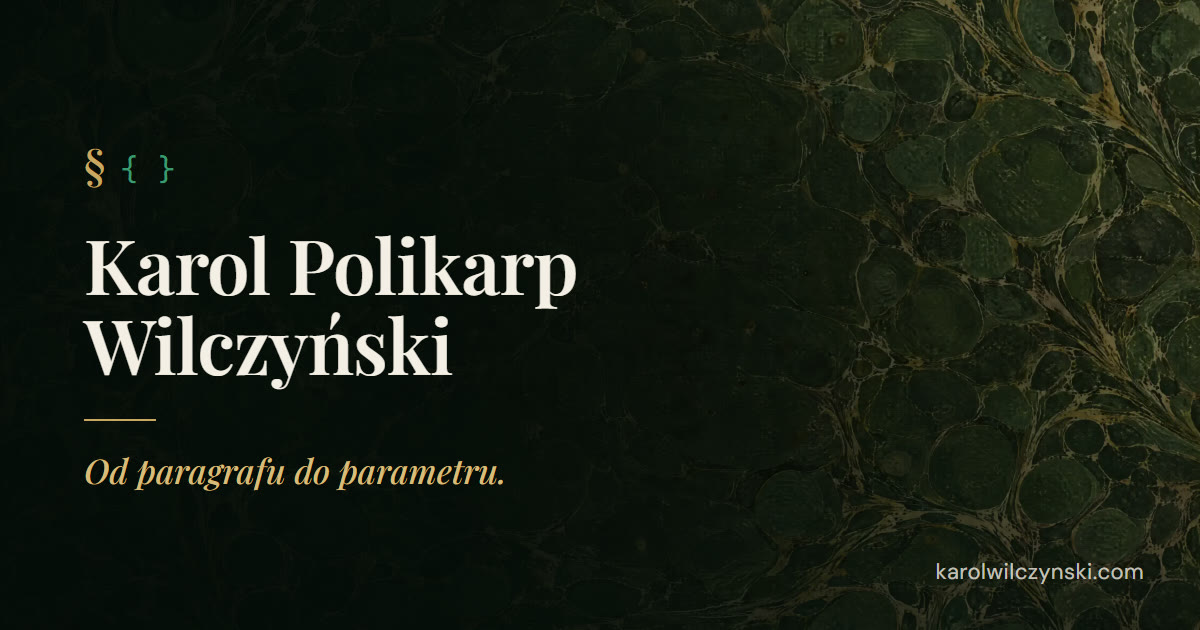
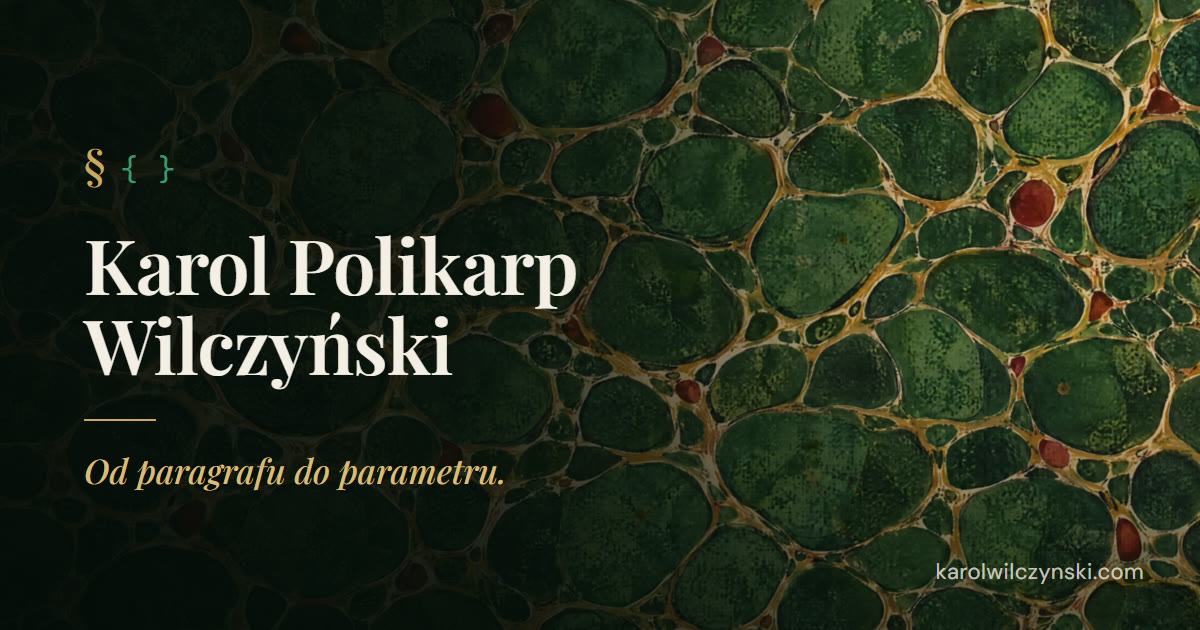
style(site): marmur kamienny (turecki) zamiast poprzedniego, bardzo subtelnie w kontakcie, nagłówkach studiów i na 404; nowa karta OG

diff --git a/style.css b/style.css
@@ -5403,16 +5403,16 @@ html { scrollbar-color: var(--color-phthalo-mid) transparent; }
 
 [data-theme="dark"] .contact.s1-section {
     background:
-        linear-gradient(90deg, var(--color-bg) 0%, rgba(18, 16, 13, 0.82) 45%, rgba(18, 16, 13, 0.55) 100%),
+        linear-gradient(90deg, rgba(18, 16, 13, 0.93) 0%, rgba(18, 16, 13, 0.9) 50%, rgba(18, 16, 13, 0.8) 100%),
         linear-gradient(180deg, var(--color-bg) 0%, transparent 30%, transparent 75%, var(--color-bg) 100%),
-        url("assets/images/brand/marmur.webp") right center / cover no-repeat,
+        url("assets/images/brand/kamienny.webp") right center / cover no-repeat,
         var(--color-bg);
 }
 @media (max-width: 767px) {
     [data-theme="dark"] .contact.s1-section {
         background:
-            linear-gradient(180deg, var(--color-bg) 0%, rgba(18, 16, 13, 0.7) 40%, rgba(18, 16, 13, 0.7) 70%, var(--color-bg) 100%),
-            url("assets/images/brand/marmur-sm.webp") 70% center / cover no-repeat,
+            linear-gradient(180deg, var(--color-bg) 0%, rgba(18, 16, 13, 0.9) 30%, rgba(18, 16, 13, 0.9) 70%, var(--color-bg) 100%),
+            url("assets/images/brand/kamienny-sm.webp") 70% center / cover no-repeat,
             var(--color-bg);
     }
 }
@@ -5425,16 +5425,16 @@ html { scrollbar-color: var(--color-phthalo-mid) transparent; }
     inset: 0;
     z-index: -1;
     pointer-events: none;
-    background: url("assets/images/brand/marmur-sm.webp") center / cover no-repeat;
-    opacity: 0.07;
+    background: url("assets/images/brand/kamienny-sm.webp") center / cover no-repeat;
+    opacity: 0.05;
     mix-blend-mode: multiply;
     -webkit-mask-image: linear-gradient(180deg, #000 0%, #000 55%, transparent 100%);
     mask-image: linear-gradient(180deg, #000 0%, #000 55%, transparent 100%);
 }
 [data-theme="dark"] .case-hero::before {
-    opacity: 0.24;
+    opacity: 0.12;
     mix-blend-mode: normal;
 }
 @media (min-width: 1200px) {
-    .case-hero::before { background-image: url("assets/images/brand/marmur.webp"); }
+    .case-hero::before { background-image: url("assets/images/brand/kamienny.webp"); }
 }

diff --git a/404.html b/404.html
@@ -25,8 +25,8 @@
             font-family: 'DM Sans', -apple-system, BlinkMacSystemFont, 'Segoe UI', Roboto, sans-serif;
             /* marbled endpaper of an old law book, darkened in the middle for the text */
             background:
-                radial-gradient(ellipse 60% 55% at 50% 50%, rgba(18, 16, 13, 0.88) 0%, rgba(18, 16, 13, 0.55) 70%, rgba(18, 16, 13, 0.35) 100%),
-                url("/assets/images/brand/marmur-sm.webp") center / cover no-repeat,
+                radial-gradient(ellipse 60% 55% at 50% 50%, rgba(18, 16, 13, 0.92) 0%, rgba(18, 16, 13, 0.86) 70%, rgba(18, 16, 13, 0.78) 100%),
+                url("/assets/images/brand/kamienny-sm.webp") center / cover no-repeat,
                 #12100d;
             color: #f5f3f0;
             display: flex;
@@ -39,8 +39,8 @@
         @media (min-width: 1200px) {
             body {
                 background:
-                    radial-gradient(ellipse 60% 55% at 50% 50%, rgba(18, 16, 13, 0.88) 0%, rgba(18, 16, 13, 0.55) 70%, rgba(18, 16, 13, 0.35) 100%),
-                    url("/assets/images/brand/marmur.webp") center / cover no-repeat,
+                    radial-gradient(ellipse 60% 55% at 50% 50%, rgba(18, 16, 13, 0.92) 0%, rgba(18, 16, 13, 0.86) 70%, rgba(18, 16, 13, 0.78) 100%),
+                    url("/assets/images/brand/kamienny.webp") center / cover no-repeat,
                     #12100d;
             }
         }

diff --git a/case/aigets/index.html b/case/aigets/index.html
@@ -76,7 +76,7 @@
     <link rel="preload" as="style" href="https://fonts.googleapis.com/css2?family=Playfair+Display:wght@400;600;700&family=DM+Sans:wght@400;500;600;700&family=JetBrains+Mono:wght@400;500;600&display=swap">
     <link href="https://fonts.googleapis.com/css2?family=Playfair+Display:wght@400;600;700&family=DM+Sans:wght@400;500;600;700&family=JetBrains+Mono:wght@400;500;600&display=swap" rel="stylesheet" media="print" onload="this.media='all'">
     <noscript><link href="https://fonts.googleapis.com/css2?family=Playfair+Display:wght@400;600;700&family=DM+Sans:wght@400;500;600;700&family=JetBrains+Mono:wght@400;500;600&display=swap" rel="stylesheet"></noscript>
-    <link rel="stylesheet" href="/style.css?v=112">
+    <link rel="stylesheet" href="/style.css?v=113">
 </head>
 <body>
     <!-- Skip to main content link for accessibility -->

diff --git a/case/analizy-danych/index.html b/case/analizy-danych/index.html
@@ -89,7 +89,7 @@
     <link rel="preload" as="style" href="https://fonts.googleapis.com/css2?family=Playfair+Display:wght@400;600;700&family=DM+Sans:wght@400;500;600;700&family=JetBrains+Mono:wght@400;500;600&display=swap">
     <link href="https://fonts.googleapis.com/css2?family=Playfair+Display:wght@400;600;700&family=DM+Sans:wght@400;500;600;700&family=JetBrains+Mono:wght@400;500;600&display=swap" rel="stylesheet" media="print" onload="this.media='all'">
     <noscript><link href="https://fonts.googleapis.com/css2?family=Playfair+Display:wght@400;600;700&family=DM+Sans:wght@400;500;600;700&family=JetBrains+Mono:wght@400;500;600&display=swap" rel="stylesheet"></noscript>
-    <link rel="stylesheet" href="/style.css?v=112">
+    <link rel="stylesheet" href="/style.css?v=113">
 </head>
 <body>
     <!-- Skip to main content link for accessibility -->

diff --git a/case/automargiela/index.html b/case/automargiela/index.html
@@ -77,7 +77,7 @@
     <link rel="preload" as="style" href="https://fonts.googleapis.com/css2?family=Playfair+Display:wght@400;600;700&family=DM+Sans:wght@400;500;600;700&family=JetBrains+Mono:wght@400;500;600&display=swap">
     <link href="https://fonts.googleapis.com/css2?family=Playfair+Display:wght@400;600;700&family=DM+Sans:wght@400;500;600;700&family=JetBrains+Mono:wght@400;500;600&display=swap" rel="stylesheet" media="print" onload="this.media='all'">
     <noscript><link href="https://fonts.googleapis.com/css2?family=Playfair+Display:wght@400;600;700&family=DM+Sans:wght@400;500;600;700&family=JetBrains+Mono:wght@400;500;600&display=swap" rel="stylesheet"></noscript>
-    <link rel="stylesheet" href="/style.css?v=112">
+    <link rel="stylesheet" href="/style.css?v=113">
 </head>
 <body>
     <!-- Skip to main content link for accessibility -->

diff --git a/case/jakieprawo/index.html b/case/jakieprawo/index.html
@@ -77,7 +77,7 @@
     <link rel="preload" as="style" href="https://fonts.googleapis.com/css2?family=Playfair+Display:wght@400;600;700&family=DM+Sans:wght@400;500;600;700&family=JetBrains+Mono:wght@400;500;600&display=swap">
     <link href="https://fonts.googleapis.com/css2?family=Playfair+Display:wght@400;600;700&family=DM+Sans:wght@400;500;600;700&family=JetBrains+Mono:wght@400;500;600&display=swap" rel="stylesheet" media="print" onload="this.media='all'">
     <noscript><link href="https://fonts.googleapis.com/css2?family=Playfair+Display:wght@400;600;700&family=DM+Sans:wght@400;500;600;700&family=JetBrains+Mono:wght@400;500;600&display=swap" rel="stylesheet"></noscript>
-    <link rel="stylesheet" href="/style.css?v=112">
+    <link rel="stylesheet" href="/style.css?v=113">
 </head>
 <body>
     <!-- Skip to main content link for accessibility -->

diff --git a/case/majeranek/index.html b/case/majeranek/index.html
@@ -77,7 +77,7 @@
     <link rel="preload" as="style" href="https://fonts.googleapis.com/css2?family=Playfair+Display:wght@400;600;700&family=DM+Sans:wght@400;500;600;700&family=JetBrains+Mono:wght@400;500;600&display=swap">
     <link href="https://fonts.googleapis.com/css2?family=Playfair+Display:wght@400;600;700&family=DM+Sans:wght@400;500;600;700&family=JetBrains+Mono:wght@400;500;600&display=swap" rel="stylesheet" media="print" onload="this.media='all'">
     <noscript><link href="https://fonts.googleapis.com/css2?family=Playfair+Display:wght@400;600;700&family=DM+Sans:wght@400;500;600;700&family=JetBrains+Mono:wght@400;500;600&display=swap" rel="stylesheet"></noscript>
-    <link rel="stylesheet" href="/style.css?v=112">
+    <link rel="stylesheet" href="/style.css?v=113">
 </head>
 <body>
     <!-- Skip to main content link for accessibility -->

diff --git a/case/narzedzia/index.html b/case/narzedzia/index.html
@@ -98,7 +98,7 @@
     <link rel="preload" as="style" href="https://fonts.googleapis.com/css2?family=Playfair+Display:wght@400;600;700&family=DM+Sans:wght@400;500;600;700&family=JetBrains+Mono:wght@400;500;600&display=swap">
     <link href="https://fonts.googleapis.com/css2?family=Playfair+Display:wght@400;600;700&family=DM+Sans:wght@400;500;600;700&family=JetBrains+Mono:wght@400;500;600&display=swap" rel="stylesheet" media="print" onload="this.media='all'">
     <noscript><link href="https://fonts.googleapis.com/css2?family=Playfair+Display:wght@400;600;700&family=DM+Sans:wght@400;500;600;700&family=JetBrains+Mono:wght@400;500;600&display=swap" rel="stylesheet"></noscript>
-    <link rel="stylesheet" href="/style.css?v=112">
+    <link rel="stylesheet" href="/style.css?v=113">
 </head>
 <body>
     <!-- Skip to main content link for accessibility -->

diff --git a/case/parawan/index.html b/case/parawan/index.html
@@ -77,7 +77,7 @@
     <link rel="preload" as="style" href="https://fonts.googleapis.com/css2?family=Playfair+Display:wght@400;600;700&family=DM+Sans:wght@400;500;600;700&family=JetBrains+Mono:wght@400;500;600&display=swap">
     <link href="https://fonts.googleapis.com/css2?family=Playfair+Display:wght@400;600;700&family=DM+Sans:wght@400;500;600;700&family=JetBrains+Mono:wght@400;500;600&display=swap" rel="stylesheet" media="print" onload="this.media='all'">
     <noscript><link href="https://fonts.googleapis.com/css2?family=Playfair+Display:wght@400;600;700&family=DM+Sans:wght@400;500;600;700&family=JetBrains+Mono:wght@400;500;600&display=swap" rel="stylesheet"></noscript>
-    <link rel="stylesheet" href="/style.css?v=112">
+    <link rel="stylesheet" href="/style.css?v=113">
 </head>
 <body>
     <!-- Skip to main content link for accessibility -->

diff --git a/case/upfor/index.html b/case/upfor/index.html
@@ -77,7 +77,7 @@
     <link rel="preload" as="style" href="https://fonts.googleapis.com/css2?family=Playfair+Display:wght@400;600;700&family=DM+Sans:wght@400;500;600;700&family=JetBrains+Mono:wght@400;500;600&display=swap">
     <link href="https://fonts.googleapis.com/css2?family=Playfair+Display:wght@400;600;700&family=DM+Sans:wght@400;500;600;700&family=JetBrains+Mono:wght@400;500;600&display=swap" rel="stylesheet" media="print" onload="this.media='all'">
     <noscript><link href="https://fonts.googleapis.com/css2?family=Playfair+Display:wght@400;600;700&family=DM+Sans:wght@400;500;600;700&family=JetBrains+Mono:wght@400;500;600&display=swap" rel="stylesheet"></noscript>
-    <link rel="stylesheet" href="/style.css?v=112">
+    <link rel="stylesheet" href="/style.css?v=113">
 </head>
 <body>
     <!-- Skip to main content link for accessibility -->

diff --git a/case/urzednik-i-ai/index.html b/case/urzednik-i-ai/index.html
@@ -77,7 +77,7 @@
     <link rel="preload" as="style" href="https://fonts.googleapis.com/css2?family=Playfair+Display:wght@400;600;700&family=DM+Sans:wght@400;500;600;700&family=JetBrains+Mono:wght@400;500;600&display=swap">
     <link href="https://fonts.googleapis.com/css2?family=Playfair+Display:wght@400;600;700&family=DM+Sans:wght@400;500;600;700&family=JetBrains+Mono:wght@400;500;600&display=swap" rel="stylesheet" media="print" onload="this.media='all'">
     <noscript><link href="https://fonts.googleapis.com/css2?family=Playfair+Display:wght@400;600;700&family=DM+Sans:wght@400;500;600;700&family=JetBrains+Mono:wght@400;500;600&display=swap" rel="stylesheet"></noscript>
-    <link rel="stylesheet" href="/style.css?v=112">
+    <link rel="stylesheet" href="/style.css?v=113">
 </head>
 <body>
     <!-- Skip to main content link for accessibility -->

diff --git a/case/zorza/index.html b/case/zorza/index.html
@@ -77,7 +77,7 @@
     <link rel="preload" as="style" href="https://fonts.googleapis.com/css2?family=Playfair+Display:wght@400;600;700&family=DM+Sans:wght@400;500;600;700&family=JetBrains+Mono:wght@400;500;600&display=swap">
     <link href="https://fonts.googleapis.com/css2?family=Playfair+Display:wght@400;600;700&family=DM+Sans:wght@400;500;600;700&family=JetBrains+Mono:wght@400;500;600&display=swap" rel="stylesheet" media="print" onload="this.media='all'">
     <noscript><link href="https://fonts.googleapis.com/css2?family=Playfair+Display:wght@400;600;700&family=DM+Sans:wght@400;500;600;700&family=JetBrains+Mono:wght@400;500;600&display=swap" rel="stylesheet"></noscript>
-    <link rel="stylesheet" href="/style.css?v=112">
+    <link rel="stylesheet" href="/style.css?v=113">
 </head>
 <body>
     <!-- Skip to main content link for accessibility -->
